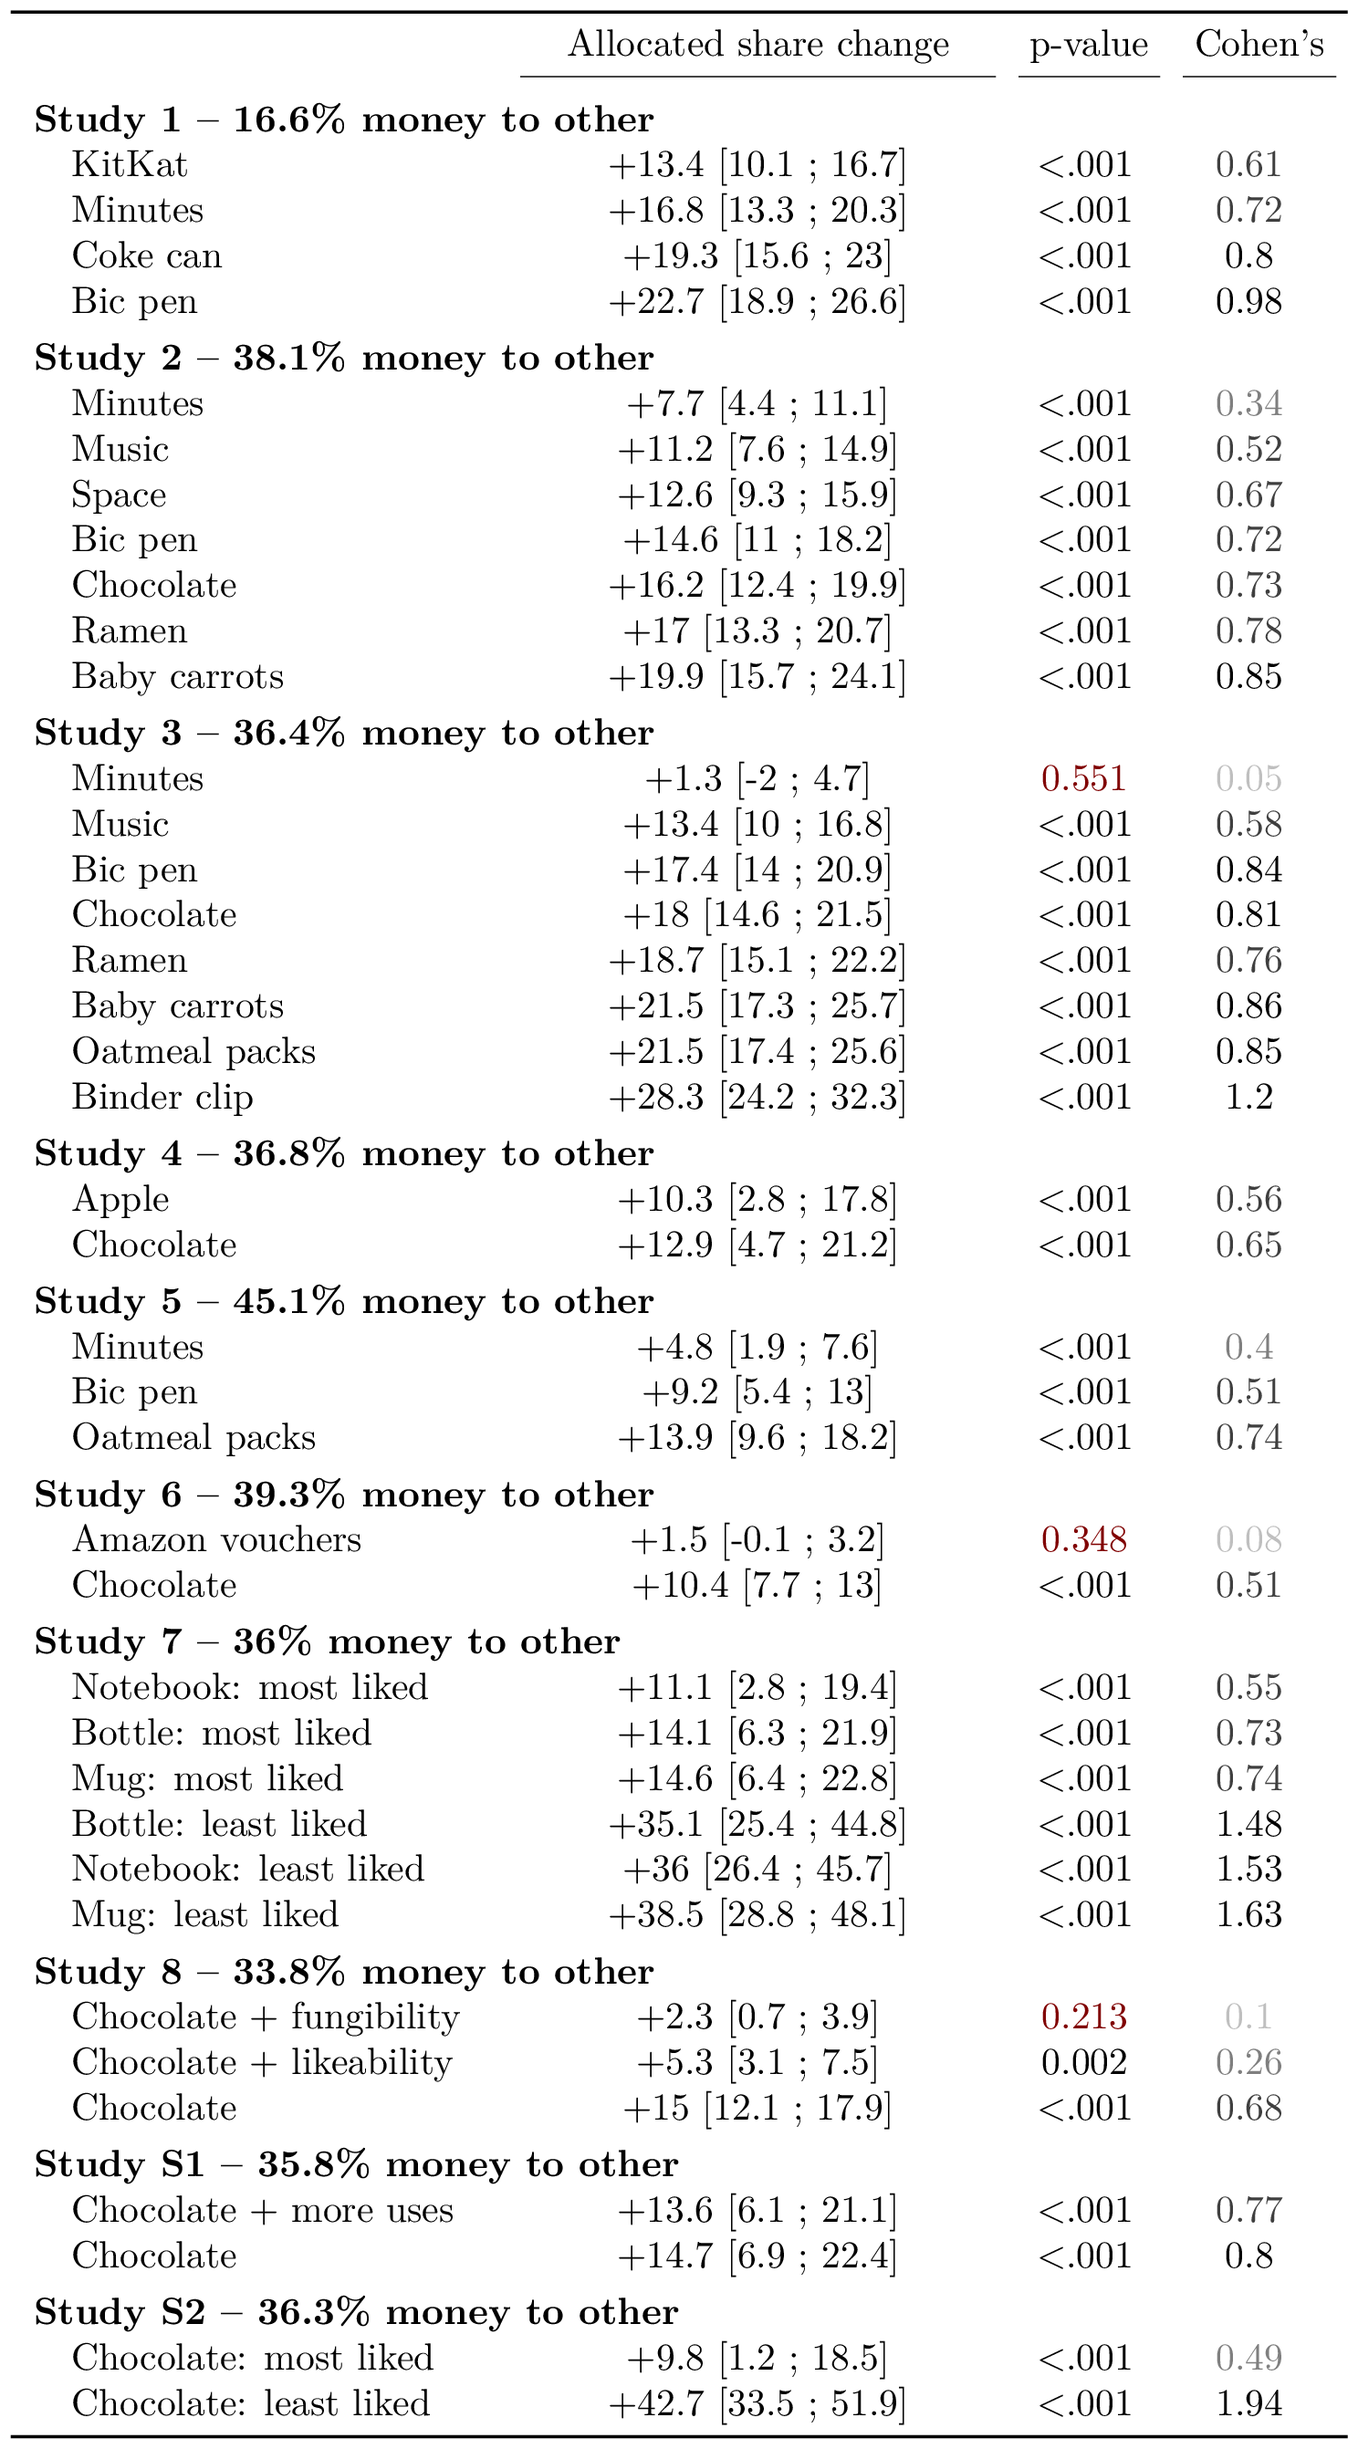
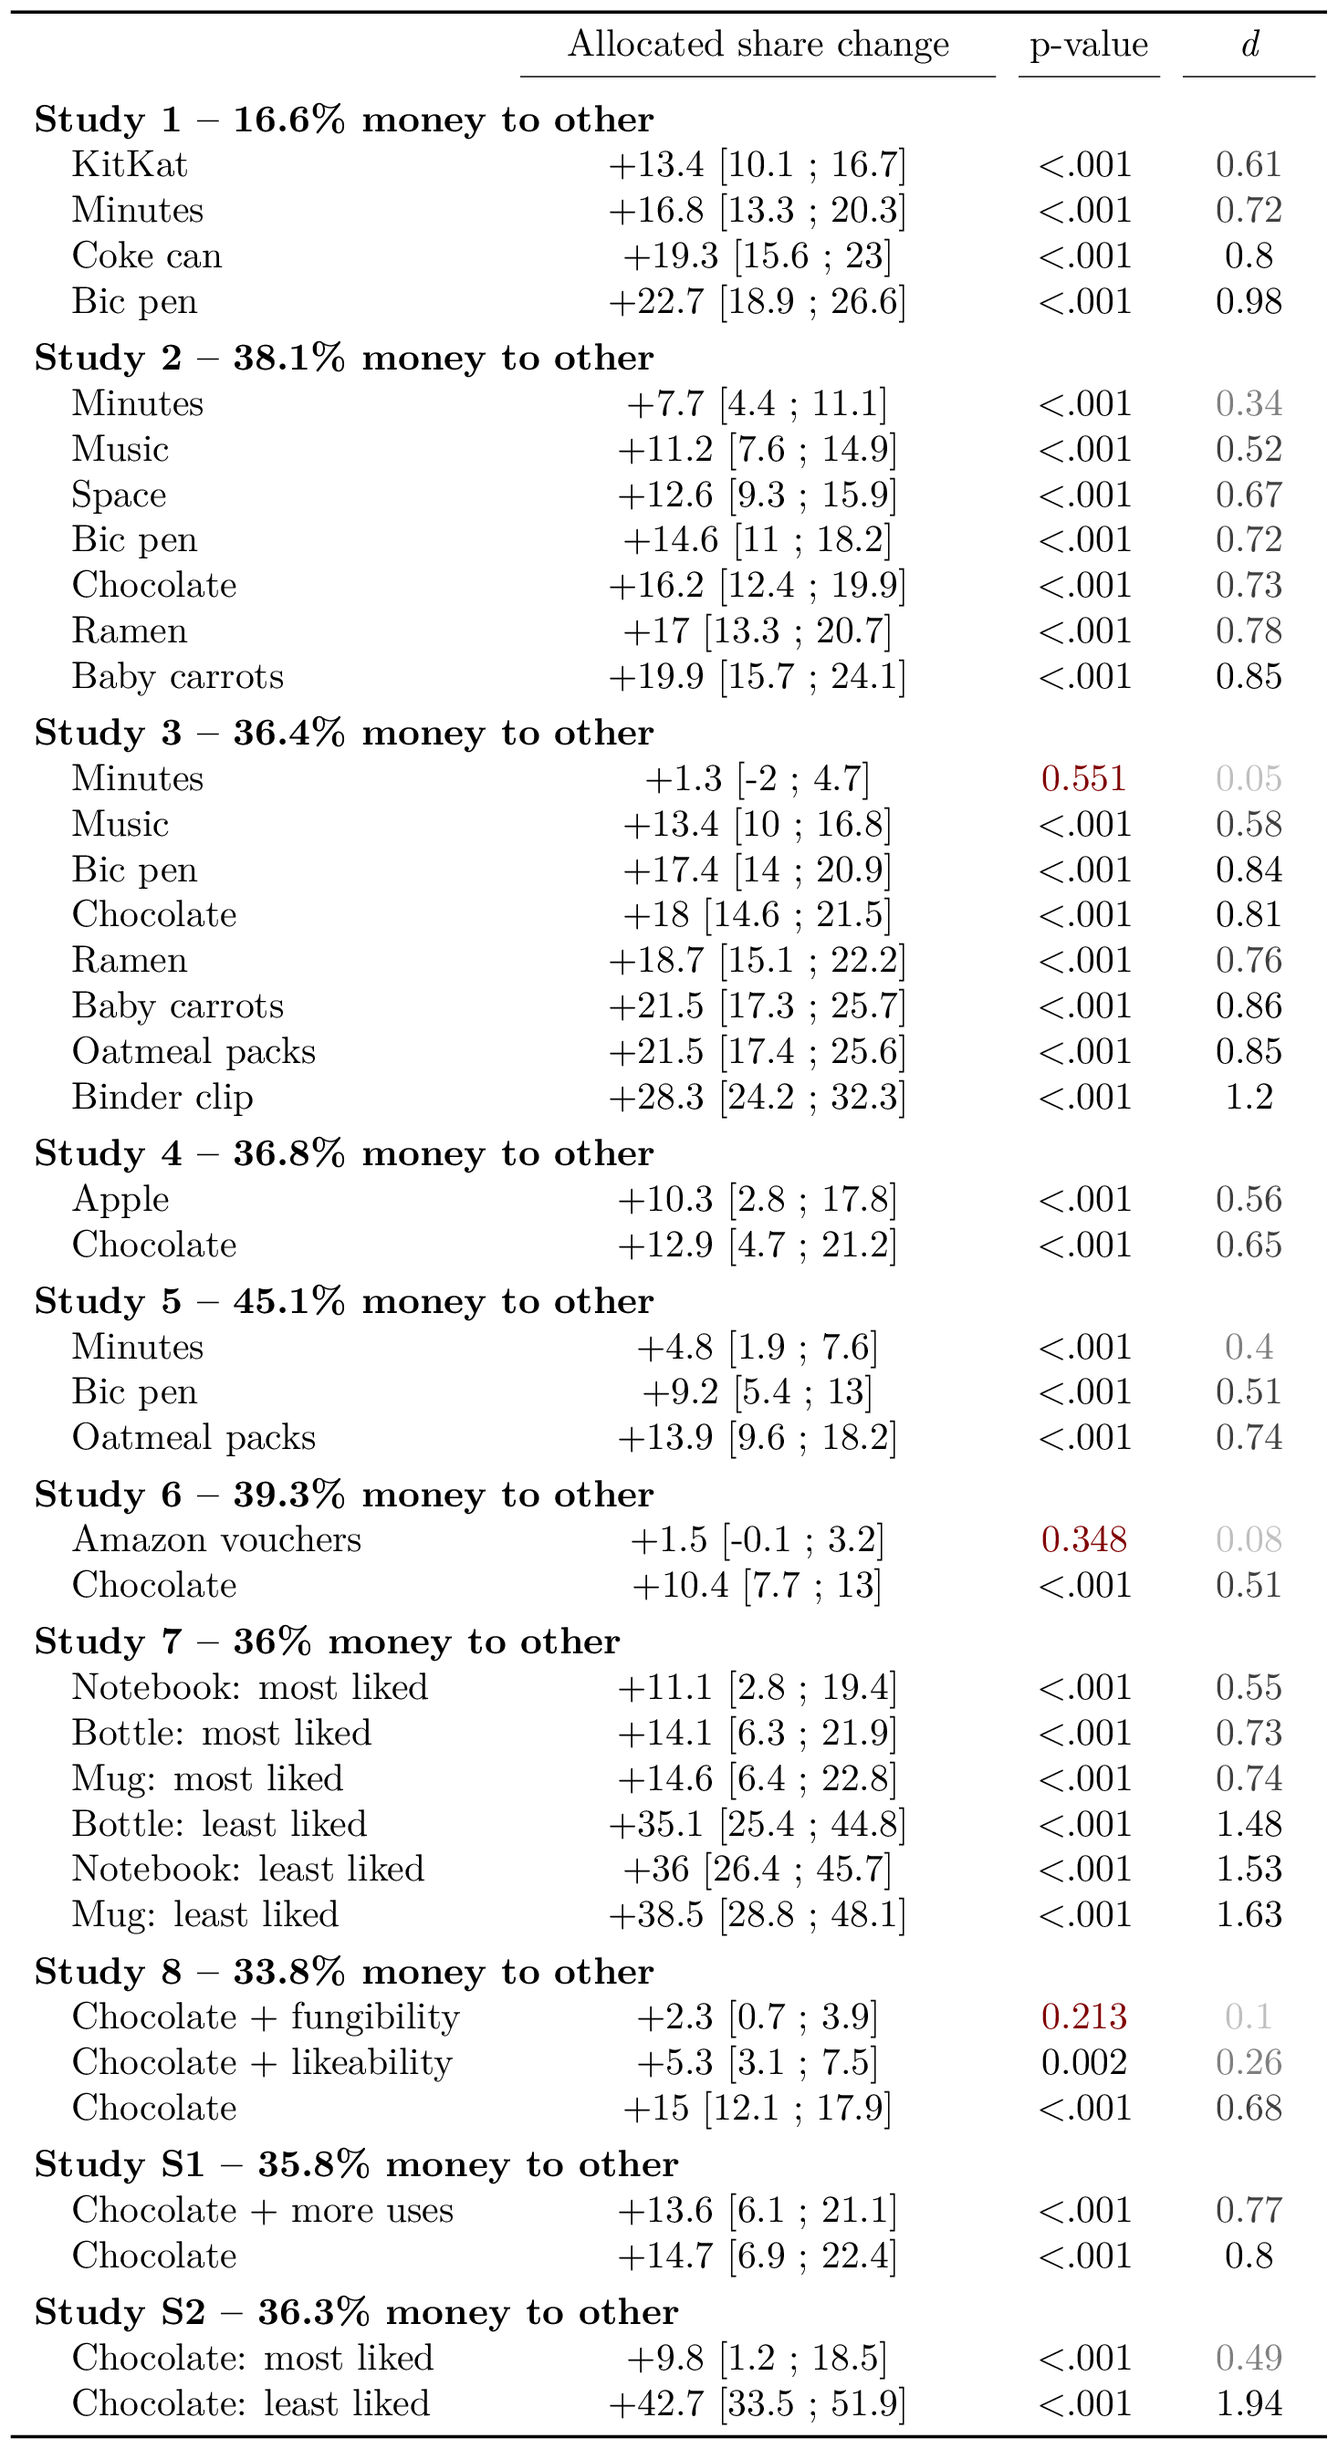
LLM March 2026 rerun

diff --git a/LLM/classify_openAI_nonmoney.py b/LLM/classify_openAI_nonmoney.py
@@ -12,12 +12,12 @@ INPUT_FILE = "texts_nonmoney.csv"
 OUTPUT_FILE = "classified_nonmoney.csv"
 INTERMEDIATE_FILE = "classified_partial.csv"
 BATCH_SIZE = 20        # number of sentences per API call
-MODEL = "gpt-4o-mini"  # select preferred model; this is the one we used
+MODEL = "gpt-4o-mini" # can switch to gpt-4o for higher quality
 
 # -------------------------
 # Initialize OpenAI client
 # -------------------------
-os.environ["OPENAI_API_KEY"] = "your_API_key_here"
+os.environ["OPENAI_API_KEY"] = "YOUR_API_KEY_HERE"
 client = OpenAI(api_key=os.environ.get("OPENAI_API_KEY"))
 
 # -------------------------
@@ -55,11 +55,11 @@ After the choices, we asked the subjects three questions,
 3. [comparison] Please explain why you allocated LESS/SAME/MORE of one resource or the other to the other participant.
 
 
-Your role si to read the SECOND question -- other resource allocation and classify what you think is the MAIN reported motivations for the choice. 
+Your role si to read the SECOND question -- resource allocation and classify what you think is the MAIN reported motivations for the choice. 
 
-Your answer will be one and only one of the following: SOCIALNORM, DESIRABILITY, FUNGIBILITY, PERISHABILITY, SATIATION, OTHER. 
+Your answer will be one and only one of the following: SOCIALNORM, DESIRABILITY, VERSATILITY, PERISHABILITY, SATIATION, OTHER. 
 
-- FUNGIBILITY means that the subject refers to the fact that some resources are more fungible than others either directly or indirectly (e.g. with X one can have many uses; X can be used to make more things....)
+- VERSATILITY means that the subject refers to the fact that some resources have more uses than others either directly or indirectly (e.g. with X one can have many uses; X can be used to make more things....)
 - DESIRABILITY means that the subject indicates liking a resource more as the main reason for the choice (e.g. directly saying that she likes more one resource, or less the other)
 - SOCIALNORM means that the subject cites an injunctive norm of behavior as a justification for the choice (e.g. "it is fair to do so" or their choice is "how things should be")
 - SATIATION means that the subject indicates already having enough of one resource and hence valuing the extra units less (e.g. "I already have at home so this is less valuable to me")
@@ -68,7 +68,7 @@ Your answer will be one and only one of the following: SOCIALNORM, DESIRABILITY,
 
 For each row (that uniquely identifes a subject), row index 1 to N, read the three replies, make up your mind as to the best-fitting category. 
 
-Then reply strictly using the scheme: 1: FUNGIBILITY; 2: SATIATION; 3. DESIRABILITY ...
+Then reply strictly using the scheme: 1: VERSATILITY; 2: SATIATION; 3. DESIRABILITY ...
 
 
 {numbered_texts}
@@ -77,7 +77,7 @@ Then reply strictly using the scheme: 1: FUNGIBILITY; 2: SATIATION; 3. DESIRABIL
         response = client.chat.completions.create(
             model=MODEL,
             messages=[
-                {"role": "system", "content": "You are a text classifier. Reply uniquely by SOCIALNORM, DESIRABILITY, FUNGIBILITY, PERISHABILITY, SATIATION, OTHER."},
+                {"role": "system", "content": "You are a text classifier. Reply uniquely by SOCIALNORM, DESIRABILITY, VERSATILITY, PERISHABILITY, SATIATION, OTHER."},
                 {"role": "user", "content": prompt},
             ],
             temperature=0
@@ -85,8 +85,9 @@ Then reply strictly using the scheme: 1: FUNGIBILITY; 2: SATIATION; 3. DESIRABIL
         text_out = response.choices[0].message.content.strip()
         
         
+        # Parse structured response
         # Parse structured response with regex
-        pattern = r"(\d+)\s*:\s*(SOCIALNORM|DESIRABILITY|FUNGIBILITY|PERISHABILITY|SATIATION|OTHER)"
+        pattern = r"(\d+)\s*:\s*(SOCIALNORM|DESIRABILITY|VERSATILITY|PERISHABILITY|SATIATION|OTHER)"
         matches = re.findall(pattern, text_out, flags=re.IGNORECASE)
 
         classifications = ["ERROR"] * len(texts)
@@ -95,6 +96,18 @@ Then reply strictly using the scheme: 1: FUNGIBILITY; 2: SATIATION; 3. DESIRABIL
             if 0 <= idx_i < len(texts):
                 classifications[idx_i] = label.upper()
                 
+        # classifications = [None] * len(texts)
+        # for part in text_out.replace("\n"," ").split():
+        #     if ":" in part:
+        #         idx, cat = part.split(":", 1)
+        #         if idx.isdigit():
+        #             idx_i = int(idx)-1
+        #             if idx_i < len(classifications):
+        #                 classifications[idx_i] = cat.strip().upper()
+        # # Ensure the list has the correct length
+        # for i in range(len(classifications)):
+        #     if classifications[i] not in ["NORISK", "RISK", "AMBIGUITY","DEEPUNCERTAINTY"]:
+        #         classifications[i] = "ERROR"
         return classifications
     except Exception as e:
         print(f"Error classifying batch: {e}")

diff --git a/LLM/classify_openAI_money.py b/LLM/classify_openAI_money.py
@@ -12,12 +12,12 @@ INPUT_FILE = "texts_money.csv"
 OUTPUT_FILE = "classified_money.csv"
 INTERMEDIATE_FILE = "classified_partial.csv"
 BATCH_SIZE = 20        # number of sentences per API call
-MODEL = "gpt-4o-mini"  # select preferred model; this is the one we used
+MODEL = "gpt-4o-mini" # can switch to gpt-4o for higher quality
 
 # -------------------------
 # Initialize OpenAI client
 # -------------------------
-os.environ["OPENAI_API_KEY"] = "your_API_key_here"
+os.environ["OPENAI_API_KEY"] = "YOUR_API_KEY_HERE"
 client = OpenAI(api_key=os.environ.get("OPENAI_API_KEY"))
 
 # -------------------------
@@ -57,9 +57,9 @@ After the choices, we asked the subjects three questions,
 
 Your role si to read the FIRST question -- money allocation and classify what you think is the MAIN reported motivations for the choice. 
 
-Your answer will be one and only one of the following: SOCIALNORM, DESIRABILITY, FUNGIBILITY, PERISHABILITY, SATIATION, OTHER. 
+Your answer will be one and only one of the following: SOCIALNORM, DESIRABILITY, VERSATILITY, PERISHABILITY, SATIATION, OTHER. 
 
-- FUNGIBILITY means that the subject refers to the fact that some resources are more fungible than others either directly or indirectly (e.g. with X one can have many uses; X can be used to make more things....)
+- VERSATILITY means that the subject refers to the fact that some resources have more uses than others either directly or indirectly (e.g. with X one can have many uses; X can be used to make more things....)
 - DESIRABILITY means that the subject indicates liking a resource more as the main reason for the choice (e.g. directly saying that she likes more one resource, or less the other)
 - SOCIALNORM means that the subject cites an injunctive norm of behavior as a justification for the choice (e.g. "it is fair to do so" or their choice is "how things should be")
 - SATIATION means that the subject indicates already having enough of one resource and hence valuing the extra units less (e.g. "I already have at home so this is less valuable to me")
@@ -68,7 +68,7 @@ Your answer will be one and only one of the following: SOCIALNORM, DESIRABILITY,
 
 For each row (that uniquely identifes a subject), row index 1 to N, read the three replies, make up your mind as to the best-fitting category. 
 
-Then reply strictly using the scheme: 1: FUNGIBILITY; 2: SATIATION; 3. DESIRABILITY ...
+Then reply strictly using the scheme: 1: VERSATILITY; 2: SATIATION; 3. DESIRABILITY ...
 
 
 {numbered_texts}
@@ -77,7 +77,7 @@ Then reply strictly using the scheme: 1: FUNGIBILITY; 2: SATIATION; 3. DESIRABIL
         response = client.chat.completions.create(
             model=MODEL,
             messages=[
-                {"role": "system", "content": "You are a text classifier. Reply uniquely by SOCIALNORM, DESIRABILITY, FUNGIBILITY, PERISHABILITY, SATIATION, OTHER."},
+                {"role": "system", "content": "You are a text classifier. Reply uniquely by SOCIALNORM, DESIRABILITY, VERSATILITY, PERISHABILITY, SATIATION, OTHER."},
                 {"role": "user", "content": prompt},
             ],
             temperature=0
@@ -85,8 +85,9 @@ Then reply strictly using the scheme: 1: FUNGIBILITY; 2: SATIATION; 3. DESIRABIL
         text_out = response.choices[0].message.content.strip()
         
         
+        # Parse structured response
         # Parse structured response with regex
-        pattern = r"(\d+)\s*:\s*(SOCIALNORM|DESIRABILITY|FUNGIBILITY|PERISHABILITY|SATIATION|OTHER)"
+        pattern = r"(\d+)\s*:\s*(SOCIALNORM|DESIRABILITY|VERSATILITY|PERISHABILITY|SATIATION|OTHER)"
         matches = re.findall(pattern, text_out, flags=re.IGNORECASE)
 
         classifications = ["ERROR"] * len(texts)
@@ -95,6 +96,18 @@ Then reply strictly using the scheme: 1: FUNGIBILITY; 2: SATIATION; 3. DESIRABIL
             if 0 <= idx_i < len(texts):
                 classifications[idx_i] = label.upper()
                 
+        # classifications = [None] * len(texts)
+        # for part in text_out.replace("\n"," ").split():
+        #     if ":" in part:
+        #         idx, cat = part.split(":", 1)
+        #         if idx.isdigit():
+        #             idx_i = int(idx)-1
+        #             if idx_i < len(classifications):
+        #                 classifications[idx_i] = cat.strip().upper()
+        # # Ensure the list has the correct length
+        # for i in range(len(classifications)):
+        #     if classifications[i] not in ["NORISK", "RISK", "AMBIGUITY","DEEPUNCERTAINTY"]:
+        #         classifications[i] = "ERROR"
         return classifications
     except Exception as e:
         print(f"Error classifying batch: {e}")

diff --git a/LLM/classify_openAI_diff.py b/LLM/classify_openAI_diff.py
@@ -12,12 +12,12 @@ INPUT_FILE = "texts_diff.csv"
 OUTPUT_FILE = "classified_diff.csv"
 INTERMEDIATE_FILE = "classified_partial.csv"
 BATCH_SIZE = 20        # number of sentences per API call
-MODEL = "gpt-4o-mini"  # select preferred model; this is the one we used
+MODEL = "gpt-4o-mini" # can switch to gpt-4o for higher quality
 
 # -------------------------
 # Initialize OpenAI client
 # -------------------------
-os.environ["OPENAI_API_KEY"] = "your_API_key_here"
+os.environ["OPENAI_API_KEY"] = "YOUR_API_KEY_HERE"
 client = OpenAI(api_key=os.environ.get("OPENAI_API_KEY"))
 
 # -------------------------
@@ -57,9 +57,9 @@ After the choices, we asked the subjects three questions,
 
 Your role si to read the THIRD question -- comparison and classify what you think is the MAIN reported motivations for the choice. 
 
-Your answer will be one and only one of the following: SOCIALNORM, DESIRABILITY, FUNGIBILITY, PERISHABILITY, SATIATION, OTHER. 
+Your answer will be one and only one of the following: SOCIALNORM, DESIRABILITY, VERSATILITY, PERISHABILITY, SATIATION, OTHER. 
 
-- FUNGIBILITY means that the subject refers to the fact that some resources are more fungible than others either directly or indirectly (e.g. with X one can have many uses; X can be used to make more things....)
+- VERSATILITY means that the subject refers to the fact that some resources have more uses than others either directly or indirectly (e.g. with X one can have many uses; X can be used to make more things....)
 - DESIRABILITY means that the subject indicates liking a resource more as the main reason for the choice (e.g. directly saying that she likes more one resource, or less the other)
 - SOCIALNORM means that the subject cites an injunctive norm of behavior as a justification for the choice (e.g. "it is fair to do so" or their choice is "how things should be")
 - SATIATION means that the subject indicates already having enough of one resource and hence valuing the extra units less (e.g. "I already have at home so this is less valuable to me")
@@ -68,7 +68,7 @@ Your answer will be one and only one of the following: SOCIALNORM, DESIRABILITY,
 
 For each row (that uniquely identifes a subject), row index 1 to N, read the three replies, make up your mind as to the best-fitting category. 
 
-Then reply strictly using the scheme: 1: FUNGIBILITY; 2: SATIATION; 3. DESIRABILITY ...
+Then reply strictly using the scheme: 1: VERSATILITY; 2: SATIATION; 3. DESIRABILITY ...
 
 
 {numbered_texts}
@@ -77,7 +77,7 @@ Then reply strictly using the scheme: 1: FUNGIBILITY; 2: SATIATION; 3. DESIRABIL
         response = client.chat.completions.create(
             model=MODEL,
             messages=[
-                {"role": "system", "content": "You are a text classifier. Reply uniquely by SOCIALNORM, DESIRABILITY, FUNGIBILITY, PERISHABILITY, SATIATION, OTHER."},
+                {"role": "system", "content": "You are a text classifier. Reply uniquely by SOCIALNORM, DESIRABILITY, VERSATILITY, PERISHABILITY, SATIATION, OTHER."},
                 {"role": "user", "content": prompt},
             ],
             temperature=0
@@ -85,8 +85,9 @@ Then reply strictly using the scheme: 1: FUNGIBILITY; 2: SATIATION; 3. DESIRABIL
         text_out = response.choices[0].message.content.strip()
         
         
+        # Parse structured response
         # Parse structured response with regex
-        pattern = r"(\d+)\s*:\s*(SOCIALNORM|DESIRABILITY|FUNGIBILITY|PERISHABILITY|SATIATION|OTHER)"
+        pattern = r"(\d+)\s*:\s*(SOCIALNORM|DESIRABILITY|VERSATILITY|PERISHABILITY|SATIATION|OTHER)"
         matches = re.findall(pattern, text_out, flags=re.IGNORECASE)
 
         classifications = ["ERROR"] * len(texts)
@@ -95,6 +96,18 @@ Then reply strictly using the scheme: 1: FUNGIBILITY; 2: SATIATION; 3. DESIRABIL
             if 0 <= idx_i < len(texts):
                 classifications[idx_i] = label.upper()
                 
+        # classifications = [None] * len(texts)
+        # for part in text_out.replace("\n"," ").split():
+        #     if ":" in part:
+        #         idx, cat = part.split(":", 1)
+        #         if idx.isdigit():
+        #             idx_i = int(idx)-1
+        #             if idx_i < len(classifications):
+        #                 classifications[idx_i] = cat.strip().upper()
+        # # Ensure the list has the correct length
+        # for i in range(len(classifications)):
+        #     if classifications[i] not in ["NORISK", "RISK", "AMBIGUITY","DEEPUNCERTAINTY"]:
+        #         classifications[i] = "ERROR"
         return classifications
     except Exception as e:
         print(f"Error classifying batch: {e}")
